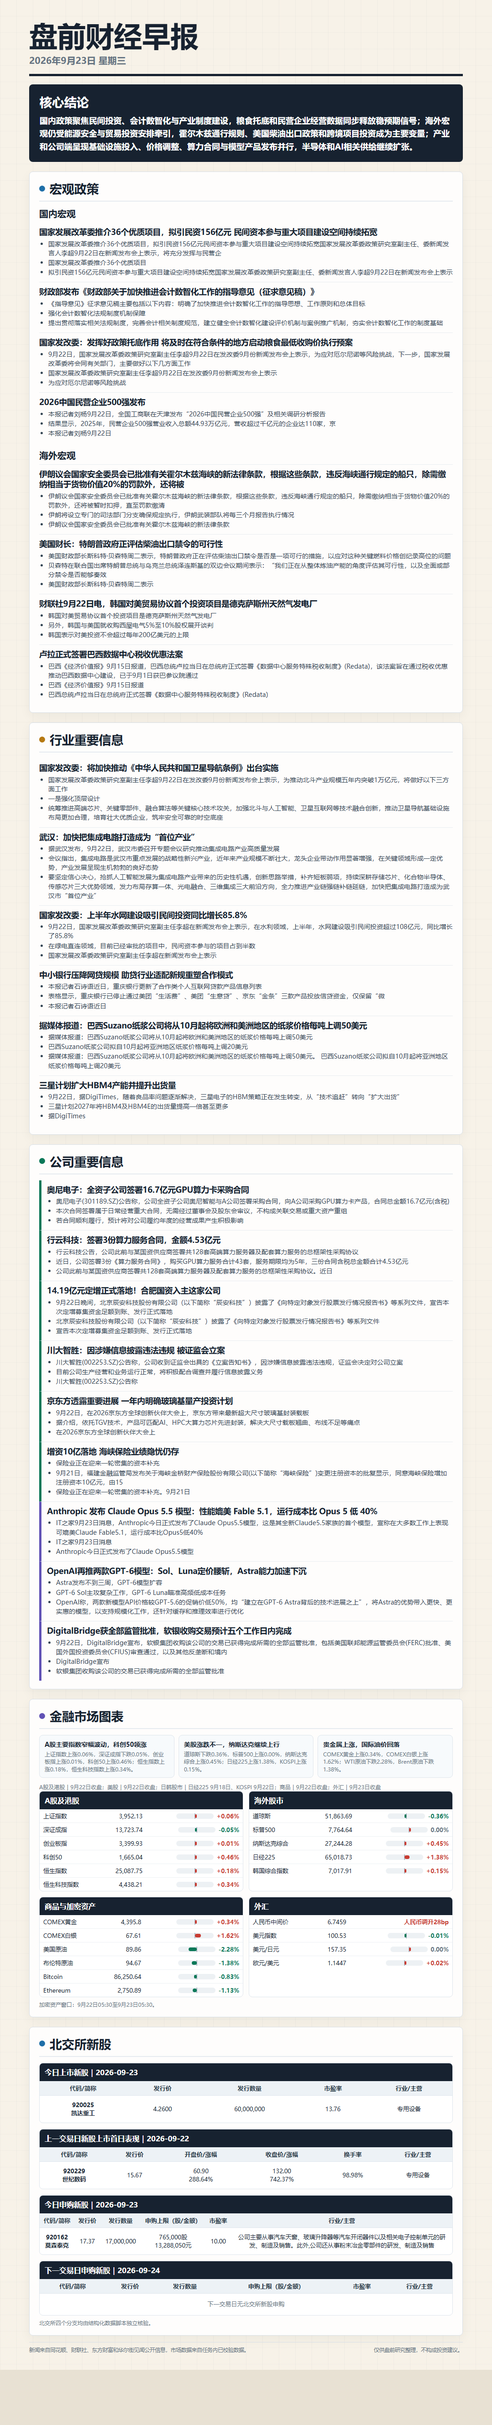
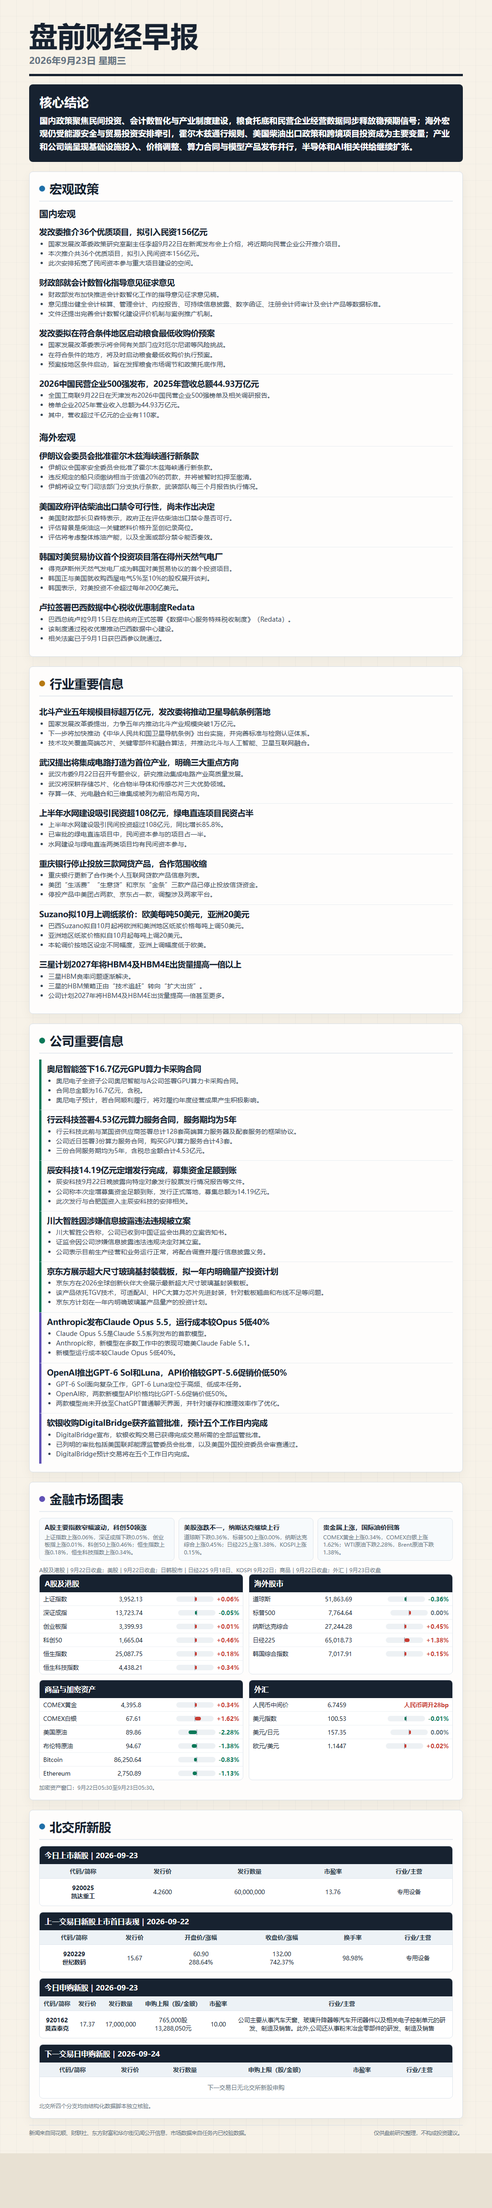
Correct 2026-09-23 morning brief

diff --git a/2026-09-23/report.html b/2026-09-23/report.html
@@ -26,98 +26,94 @@
   <section class="lead"><h2>核心结论</h2><p>国内政策聚焦民间投资、会计数智化与产业制度建设，粮食托底和民营企业经营数据同步释放稳预期信号；海外宏观仍受能源安全与贸易投资安排牵引，霍尔木兹通行规则、美国柴油出口政策和跨境项目投资成为主要变量；产业和公司端呈现基础设施投入、价格调整、算力合同与模型产品发布并行，半导体和AI相关供给继续扩张。</p></section>
   <section class="section"><h2 class="section-title"><span class="dot"></span>宏观政策</h2><h3 class="subhead">国内宏观</h3>
     <article class="item ">
-      <h4>国家发展改革委推介36个优质项目，拟引民资156亿元 民间资本参与重大项目建设空间持续拓宽</h4>
-      <ul><li>国家发展改革委推介36个优质项目，拟引民资156亿元民间资本参与重大项目建设空间持续拓宽国家发展改革委政策研究室副主任、委新闻发言人李超9月22日在新闻发布会上表示，将充分发挥与民营企</li><li>国家发展改革委推介36个优质项目</li><li>拟引民资156亿元民间资本参与重大项目建设空间持续拓宽国家发展改革委政策研究室副主任、委新闻发言人李超9月22日在新闻发布会上表示</li></ul>
+      <h4>发改委推介36个优质项目，拟引入民资156亿元</h4>
+      <ul><li>国家发展改革委政策研究室副主任李超9月22日在新闻发布会上介绍，将近期向民营企业公开推介项目。</li><li>本次推介共36个优质项目，拟引入民间资本156亿元。</li><li>此次安排拓宽了民间资本参与重大项目建设的空间。</li></ul>
     </article>
     <article class="item ">
-      <h4>财政部发布《财政部关于加快推进会计数智化工作的指导意见（征求意见稿）》</h4>
-      <ul><li>《指导意见》征求意见稿主要包括以下内容：明确了加快推进会计数智化工作的指导思想、工作原则和总体目标</li><li>强化会计数智化法规制度机制保障</li><li>提出贯彻落实相关法规制度，完善会计相关制度规范，建立健全会计数智化建设评价机制与案例推广机制，夯实会计数智化工作的制度基础</li></ul>
+      <h4>财政部就会计数智化指导意见征求意见</h4>
+      <ul><li>财政部发布加快推进会计数智化工作的指导意见征求意见稿。</li><li>意见提出健全会计核算、管理会计、内控报告、可持续信息披露、数字函证、注册会计师审计及会计产品等数据标准。</li><li>文件还提出完善会计数智化建设评价机制与案例推广机制。</li></ul>
     </article>
     <article class="item ">
-      <h4>国家发改委：发挥好政策托底作用 将及时在符合条件的地方启动粮食最低收购价执行预案</h4>
-      <ul><li>9月22日，国家发展改革委政策研究室副主任李超9月22日在发改委9月份新闻发布会上表示，为应对厄尔尼诺等风险挑战，下一步，国家发展改革委将会同有关部门，主要做好以下几方面工作</li><li>国家发展改革委政策研究室副主任李超9月22日在发改委9月份新闻发布会上表示</li><li>为应对厄尔尼诺等风险挑战</li></ul>
+      <h4>发改委拟在符合条件地区启动粮食最低收购价预案</h4>
+      <ul><li>国家发展改革委表示将会同有关部门应对厄尔尼诺等风险挑战。</li><li>在符合条件的地方，将及时启动粮食最低收购价执行预案。</li><li>预案按地区条件启动，旨在发挥粮食市场调节和政策托底作用。</li></ul>
     </article>
     <article class="item ">
-      <h4>2026中国民营企业500强发布</h4>
-      <ul><li>本报记者刘杨9月22日，全国工商联在天津发布“2026中国民营企业500强”及相关调研分析报告</li><li>结果显示，2025年，民营企业500强营业收入总额44.93万亿元，营收超过千亿元的企业达110家，京</li><li>本报记者刘杨9月22日</li></ul>
+      <h4>2026中国民营企业500强发布，2025年营收总额44.93万亿元</h4>
+      <ul><li>全国工商联9月22日在天津发布2026中国民营企业500强榜单及相关调研报告。</li><li>榜单企业2025年营业收入总额为44.93万亿元。</li><li>其中，营收超过千亿元的企业有110家。</li></ul>
     </article><h3 class="subhead">海外宏观</h3>
     <article class="item ">
-      <h4>伊朗议会国家安全委员会已批准有关霍尔木兹海峡的新法律条款，根据这些条款，违反海峡通行规定的船只，除需缴纳相当于货物价值20%的罚款外，还将被</h4>
-      <ul><li>伊朗议会国家安全委员会已批准有关霍尔木兹海峡的新法律条款，根据这些条款，违反海峡通行规定的船只，除需缴纳相当于货物价值20%的罚款外，还将被暂时扣押，直至罚款缴清</li><li>伊朗将设立专门的司法部门分支确保规定执行，伊朗武装部队将每三个月报告执行情况</li><li>伊朗议会国家安全委员会已批准有关霍尔木兹海峡的新法律条款</li></ul>
+      <h4>伊朗议会委员会批准霍尔木兹海峡通行新条款</h4>
+      <ul><li>伊朗议会国家安全委员会批准了霍尔木兹海峡通行新条款。</li><li>违反规定的船只须缴纳相当于货值20%的罚款，并将被暂时扣押至缴清。</li><li>伊朗将设立专门司法部门分支执行条款，武装部队每三个月报告执行情况。</li></ul>
     </article>
     <article class="item ">
-      <h4>美国财长：特朗普政府正评估柴油出口禁令的可行性</h4>
-      <ul><li>美国财政部长斯科特·贝森特周二表示，特朗普政府正在评估柴油出口禁令是否是一项可行的措施，以应对这种关键燃料价格创纪录高位的问题</li><li>贝森特在联合国出席特朗普总统与乌克兰总统泽连斯基的双边会议期间表示：“我们正在从整体炼油产能的角度评估其可行性，以及全面或部分禁令是否能够奏效</li><li>美国财政部长斯科特·贝森特周二表示</li></ul>
+      <h4>美国政府评估柴油出口禁令可行性，尚未作出决定</h4>
+      <ul><li>美国财政部长贝森特表示，政府正在评估柴油出口禁令是否可行。</li><li>评估背景是柴油这一关键燃料价格升至创纪录高位。</li><li>评估将考虑整体炼油产能，以及全面或部分禁令能否奏效。</li></ul>
     </article>
     <article class="item ">
-      <h4>财联社9月22日电，韩国对美贸易协议首个投资项目是德克萨斯州天然气发电厂</h4>
-      <ul><li>韩国对美贸易协议首个投资项目是德克萨斯州天然气发电厂</li><li>另外，韩国与美国就收购西屋电气5%至10%股权展开谈判</li><li>韩国表示对美投资不会超过每年200亿美元的上限</li></ul>
+      <h4>韩国对美贸易协议首个投资项目落在得州天然气电厂</h4>
+      <ul><li>得克萨斯州天然气发电厂成为韩国对美贸易协议的首个投资项目。</li><li>韩国正与美国就收购西屋电气5%至10%的股权展开谈判。</li><li>韩国表示，对美投资不会超过每年200亿美元。</li></ul>
     </article>
     <article class="item ">
-      <h4>卢拉正式签署巴西数据中心税收优惠法案</h4>
-      <ul><li>巴西《经济价值报》9月15日报道，巴西总统卢拉当日在总统府正式签署《数据中心服务特殊税收制度》(Redata)，该法案旨在通过税收优惠推动巴西数据中心建设，已于9月1日获巴参议院通过</li><li>巴西《经济价值报》9月15日报道</li><li>巴西总统卢拉当日在总统府正式签署《数据中心服务特殊税收制度》(Redata)</li></ul>
+      <h4>卢拉签署巴西数据中心税收优惠制度Redata</h4>
+      <ul><li>巴西总统卢拉9月15日在总统府正式签署《数据中心服务特殊税收制度》（Redata）。</li><li>该制度通过税收优惠推动巴西数据中心建设。</li><li>相关法案已于9月1日获巴西参议院通过。</li></ul>
     </article></section>
   <section class="section"><h2 class="section-title"><span class="dot" style="background:var(--gold)"></span>行业重要信息</h2>
     <article class="item ">
-      <h4>国家发改委：将加快推动《中华人民共和国卫星导航条例》出台实施</h4>
-      <ul><li>国家发展改革委政策研究室副主任李超9月22日在发改委9月份新闻发布会上表示，为推动北斗产业规模五年内突破1万亿元，将做好以下三方面工作</li><li>一是强化顶层设计</li><li>统筹推进高端芯片、关键零部件、融合算法等关键核心技术攻关，加强北斗与人工智能、卫星互联网等技术融合创新，推动卫星导航基础设施布局更加合理，培育壮大优质企业，筑牢安全可靠的时空底座</li></ul>
+      <h4>北斗产业五年规模目标超万亿元，发改委将推动卫星导航条例落地</h4>
+      <ul><li>国家发展改革委提出，力争五年内推动北斗产业规模突破1万亿元。</li><li>下一步将加快推动《中华人民共和国卫星导航条例》出台实施，并完善标准与检测认证体系。</li><li>技术攻关覆盖高端芯片、关键零部件和融合算法，并推动北斗与人工智能、卫星互联网融合。</li></ul>
     </article>
     <article class="item ">
-      <h4>武汉：加快把集成电路打造成为“首位产业”</h4>
-      <ul><li>据武汉发布，9月22日，武汉市委召开专题会议研究推动集成电路产业高质量发展</li><li>会议指出，集成电路是武汉市重点发展的战略性新兴产业，近年来产业规模不断壮大，龙头企业带动作用显著增强，在关键领域形成一定优势，产业发展呈现生机勃勃的良好态势</li><li>要坚定信心决心，抢抓人工智能发展为集成电路产业带来的历史性机遇，创新思路举措，补齐短板弱项，持续深耕存储芯片、化合物半导体、传感芯片三大优势领域，发力布局存算一体、光电融合、三维集成三大前沿方向，全力推进产业链强链补链延链，加快把集成电路打造成为武汉市“首位产业”</li></ul>
+      <h4>武汉提出将集成电路打造为首位产业，明确三大重点方向</h4>
+      <ul><li>武汉市委9月22日召开专题会议，研究推动集成电路产业高质量发展。</li><li>武汉将深耕存储芯片、化合物半导体和传感芯片三大优势领域。</li><li>存算一体、光电融合和三维集成被列为前沿布局方向。</li></ul>
     </article>
     <article class="item ">
-      <h4>国家发改委：上半年水网建设吸引民间投资同比增长85.8%</h4>
-      <ul><li>9月22日，国家发展改革委政策研究室副主任李超在新闻发布会上表示，在水利领域，上半年，水网建设吸引民间投资超过108亿元，同比增长了85.8%</li><li>在绿电直连领域，目前已经审批的项目中，民间资本参与的项目占到半数</li><li>国家发展改革委政策研究室副主任李超在新闻发布会上表示</li></ul>
+      <h4>上半年水网建设吸引民资超108亿元，绿电直连项目民资占半</h4>
+      <ul><li>上半年水网建设吸引民间投资超过108亿元，同比增长85.8%。</li><li>已审批的绿电直连项目中，民间资本参与的项目占一半。</li><li>水网建设与绿电直连两类项目均有民间资本参与。</li></ul>
     </article>
     <article class="item ">
-      <h4>中小银行压降网贷规模 助贷行业适配新规重塑合作模式</h4>
-      <ul><li>本报记者石诗语近日，重庆银行更新了合作类个人互联网贷款产品信息列表</li><li>表格显示，重庆银行已停止通过美团“生活费”、美团“生意贷”、京东“金条”三款产品投放信贷资金，仅保留“微</li><li>本报记者石诗语近日</li></ul>
+      <h4>重庆银行停止投放三款网贷产品，合作范围收缩</h4>
+      <ul><li>重庆银行更新了合作类个人互联网贷款产品信息列表。</li><li>美团“生活费”“生意贷”和京东“金条”三款产品已停止投放信贷资金。</li><li>停投产品中美团占两款、京东占一款，调整涉及两家平台。</li></ul>
     </article>
     <article class="item ">
-      <h4>据媒体报道：巴西Suzano纸浆公司将从10月起将欧洲和美洲地区的纸浆价格每吨上调50美元</h4>
-      <ul><li>据媒体报道：巴西Suzano纸浆公司将从10月起将欧洲和美洲地区的纸浆价格每吨上调50美元</li><li>巴西Suzano纸浆公司拟自10月起将亚洲地区纸浆价格每吨上调20美元</li><li>据媒体报道：巴西Suzano纸浆公司将从10月起将欧洲和美洲地区的纸浆价格每吨上调50美元。 巴西Suzano纸浆公司拟自10月起将亚洲地区纸浆价格每吨上调20美元</li></ul>
+      <h4>Suzano拟10月上调纸浆价：欧美每吨50美元，亚洲20美元</h4>
+      <ul><li>巴西Suzano拟自10月起将欧洲和美洲地区纸浆价格每吨上调50美元。</li><li>亚洲地区纸浆价格拟自10月起每吨上调20美元。</li><li>本轮调价按地区设定不同幅度，亚洲上调幅度低于欧美。</li></ul>
     </article>
     <article class="item ">
-      <h4>三星计划扩大HBM4产能并提升出货量</h4>
-      <ul><li>9月22日，据DigiTimes，随着良品率问题逐渐解决，三星电子的HBM策略正在发生转变，从“技术追赶”转向“扩大出货”</li><li>三星计划2027年将HBM4及HBM4E的出货量提高一倍甚至更多</li><li>据DigiTimes</li></ul>
+      <h4>三星计划2027年将HBM4及HBM4E出货量提高一倍以上</h4>
+      <ul><li>三星HBM良率问题逐渐解决。</li><li>三星的HBM策略正由“技术追赶”转向“扩大出货”。</li><li>公司计划2027年将HBM4及HBM4E出货量提高一倍甚至更多。</li></ul>
     </article></section>
   <section class="section"><h2 class="section-title"><span class="dot" style="background:var(--green)"></span>公司重要信息</h2>
     <article class="item company-line">
-      <h4>奥尼电子：全资子公司签署16.7亿元GPU算力卡采购合同</h4>
-      <ul><li>奥尼电子(301189.SZ)公告称，公司全资子公司奥尼智能与A公司签署采购合同，向A公司采购GPU算力卡产品，合同总金额16.7亿元(含税)</li><li>本次合同签署属于日常经营重大合同，无需经过董事会及股东会审议，不构成关联交易或重大资产重组</li><li>若合同顺利履行，预计将对公司履约年度的经营成果产生积极影响</li></ul>
+      <h4>奥尼智能签下16.7亿元GPU算力卡采购合同</h4>
+      <ul><li>奥尼电子全资子公司奥尼智能与A公司签署GPU算力卡采购合同。</li><li>合同总金额为16.7亿元，含税。</li><li>奥尼电子预计，若合同顺利履行，将对履约年度经营成果产生积极影响。</li></ul>
     </article>
     <article class="item company-line">
-      <h4>行云科技：签署3份算力服务合同，金额4.53亿元</h4>
-      <ul><li>行云科技公告，公司此前与某国资供应商签署共128套高端算力服务器及配套算力服务的总框架性采购协议</li><li>近日，公司签署3份《算力服务合同》，购买GPU算力服务合计43套，服务期限均为5年，三份合同含税总金额合计4.53亿元</li><li>公司此前与某国资供应商签署共128套高端算力服务器及配套算力服务的总框架性采购协议。近日</li></ul>
+      <h4>行云科技签署4.53亿元算力服务合同，服务期均为5年</h4>
+      <ul><li>行云科技此前与某国资供应商签署总计128套高端算力服务器及配套服务的框架协议。</li><li>公司近日签署3份算力服务合同，购买GPU算力服务合计43套。</li><li>三份合同服务期均为5年，含税总金额合计4.53亿元。</li></ul>
     </article>
     <article class="item company-line">
-      <h4>14.19亿元定增正式落地！合肥国资入主这家公司</h4>
-      <ul><li>9月22日晚间，北京辰安科技股份有限公司（以下简称“辰安科技”）披露了《向特定对象发行股票发行情况报告书》等系列文件，宣告本次定增募集资金足额到账、发行正式落地</li><li>北京辰安科技股份有限公司（以下简称“辰安科技”）披露了《向特定对象发行股票发行情况报告书》等系列文件</li><li>宣告本次定增募集资金足额到账、发行正式落地</li></ul>
+      <h4>辰安科技14.19亿元定增发行完成，募集资金足额到账</h4>
+      <ul><li>辰安科技9月22日晚披露向特定对象发行股票发行情况报告等文件。</li><li>公司称本次定增募集资金足额到账，发行正式落地，募集总额为14.19亿元。</li><li>此次发行与合肥国资入主辰安科技的安排相关。</li></ul>
     </article>
     <article class="item company-line">
-      <h4>川大智胜：因涉嫌信息披露违法违规 被证监会立案</h4>
-      <ul><li>川大智胜(002253.SZ)公告称，公司收到证监会出具的《立案告知书》，因涉嫌信息披露违法违规，证监会决定对公司立案</li><li>目前公司生产经营和业务运行正常，将积极配合调查并履行信息披露义务</li><li>川大智胜(002253.SZ)公告称</li></ul>
+      <h4>川大智胜因涉嫌信息披露违法违规被立案</h4>
+      <ul><li>川大智胜公告称，公司已收到中国证监会出具的立案告知书。</li><li>证监会因公司涉嫌信息披露违法违规决定对其立案。</li><li>公司表示目前生产经营和业务运行正常，将配合调查并履行信息披露义务。</li></ul>
     </article>
     <article class="item company-line">
-      <h4>京东方透露重要进展 一年内明确玻璃基量产投资计划</h4>
-      <ul><li>9月22日，在2026京东方全球创新伙伴大会上，京东方带来最新超大尺寸玻璃基封装载板</li><li>据介绍，依托TGV技术，产品可匹配AI、HPC大算力芯片先进封装，解决大尺寸载板翘曲、布线不足等痛点</li><li>在2026京东方全球创新伙伴大会上</li></ul>
-    </article>
-    <article class="item company-line">
-      <h4>增资10亿落地 海峡保险业绩隐忧仍存</h4>
-      <ul><li>保险业正在迎来一轮密集的资本补充</li><li>9月21日，福建金融监管局发布关于海峡金桥财产保险股份有限公司(以下简称“海峡保险”)变更注册资本的批复显示，同意海峡保险增加注册资本10亿元，由15</li><li>保险业正在迎来一轮密集的资本补充。9月21日</li></ul>
+      <h4>京东方展示超大尺寸玻璃基封装载板，拟一年内明确量产投资计划</h4>
+      <ul><li>京东方在2026全球创新伙伴大会展示最新超大尺寸玻璃基封装载板。</li><li>该产品依托TGV技术，可适配AI、HPC大算力芯片先进封装，针对载板翘曲和布线不足等问题。</li><li>京东方计划在一年内明确玻璃基产品量产的投资计划。</li></ul>
     </article>
     <article class="item company-line overseas">
-      <h4>Anthropic 发布 Claude Opus 5.5 模型：性能媲美 Fable 5.1，运行成本比 Opus 5 低 40%</h4>
-      <ul><li>IT之家9月23日消息，Anthropic今日正式发布了Claude Opus5.5模型，这是其全新Claude5.5家族的首个模型，宣称在大多数工作上表现可媲美Claude Fable5.1，运行成本比Opus5低40%</li><li>IT之家9月23日消息</li><li>Anthropic今日正式发布了Claude Opus5.5模型</li></ul>
+      <h4>Anthropic发布Claude Opus 5.5，运行成本较Opus 5低40%</h4>
+      <ul><li>Claude Opus 5.5是Claude 5.5系列发布的首款模型。</li><li>Anthropic称，新模型在多数工作中的表现可媲美Claude Fable 5.1。</li><li>新模型运行成本较Claude Opus 5低40%。</li></ul>
     </article>
     <article class="item company-line overseas">
-      <h4>OpenAI再推两款GPT-6模型：Sol、Luna定价腰斩，Astra能力加速下沉</h4>
-      <ul><li>Astra发布不到三周，GPT-6模型扩容</li><li>GPT-6 Sol主攻复杂工作，GPT-6 Luna瞄准高频低成本任务</li><li>OpenAI称，两款新模型API价格较GPT-5.6的促销价低50%，均“建立在GPT-6 Astra背后的技术进展之上”，将Astra的优势带入更快、更实惠的模型，以支持规模化工作，还针对缓存和推理效率进行优化</li></ul>
+      <h4>OpenAI推出GPT-6 Sol和Luna，API价格较GPT-5.6促销价低50%</h4>
+      <ul><li>GPT-6 Sol面向复杂工作，GPT-6 Luna定位于高频、低成本任务。</li><li>OpenAI称，两款新模型API价格均比GPT-5.6促销价低50%。</li><li>两款模型尚未开放至ChatGPT普通聊天界面，并针对缓存和推理效率作了优化。</li></ul>
     </article>
     <article class="item company-line overseas">
-      <h4>DigitalBridge获全部监管批准，软银收购交易预计五个工作日内完成</h4>
-      <ul><li>9月22日，DigitalBridge宣布，软银集团收购该公司的交易已获得完成所需的全部监管批准，包括美国联邦能源监管委员会(FERC)批准、美国外国投资委员会(CFIUS)审查通过，以及其他反垄断和境内</li><li>DigitalBridge宣布</li><li>软银集团收购该公司的交易已获得完成所需的全部监管批准</li></ul>
+      <h4>软银收购DigitalBridge获齐监管批准，预计五个工作日内完成</h4>
+      <ul><li>DigitalBridge宣布，软银收购交易已获得完成交易所需的全部监管批准。</li><li>已列明的审批包括美国联邦能源监管委员会批准，以及美国外国投资委员会审查通过。</li><li>DigitalBridge预计交易将在五个工作日内完成。</li></ul>
     </article></section>
   <section class="section"><h2 class="section-title"><span class="dot" style="background:var(--violet)"></span>金融市场图表</h2><div class="market-headlines"><div class="market-note"><b>A股主要指数窄幅波动，科创50领涨</b><span>上证指数上涨0.06%，深证成指下跌0.05%，创业板指上涨0.01%，科创50上涨0.46%；恒生指数上涨0.18%，恒生科技指数上涨0.34%。</span></div><div class="market-note"><b>美股涨跌不一，纳斯达克继续上行</b><span>道琼斯下跌0.36%，标普500上涨0.00%，纳斯达克综合上涨0.45%；日经225上涨1.38%，KOSPI上涨0.15%。</span></div><div class="market-note"><b>贵金属上涨，国际油价回落</b><span>COMEX黄金上涨0.34%，COMEX白银上涨1.62%；WTI原油下跌2.28%，Brent原油下跌1.38%。</span></div></div><p class="market-caption">A股及港股｜9月22日收盘；美股｜9月22日收盘；日韩股市｜日经225 9月18日、KOSPI 9月22日；商品｜9月22日收盘；外汇｜9月23日收盘</p><div class="market-grid"><div class="market-box"><h3>A股及港股</h3><table><tr><td>上证指数</td><td>3,952.13</td><td><span class="bar-wrap"><span class="bar pos upb" style="width:4.0px"></span></span><span class="up">+0.06%</span></td></tr><tr><td>深证成指</td><td>13,723.74</td><td><span class="bar-wrap"><span class="bar neg downb" style="width:4.0px"></span></span><span class="down">-0.05%</span></td></tr><tr><td>创业板指</td><td>3,399.93</td><td><span class="bar-wrap"><span class="bar pos upb" style="width:4.0px"></span></span><span class="up">+0.01%</span></td></tr><tr><td>科创50</td><td>1,665.04</td><td><span class="bar-wrap"><span class="bar pos upb" style="width:4.0px"></span></span><span class="up">+0.46%</span></td></tr><tr><td>恒生指数</td><td>25,087.75</td><td><span class="bar-wrap"><span class="bar pos upb" style="width:4.0px"></span></span><span class="up">+0.18%</span></td></tr><tr><td>恒生科技指数</td><td>4,438.21</td><td><span class="bar-wrap"><span class="bar pos upb" style="width:4.0px"></span></span><span class="up">+0.34%</span></td></tr></table></div><div class="market-box"><h3>海外股市</h3><table><tr><td>道琼斯</td><td>51,863.69</td><td><span class="bar-wrap"><span class="bar neg downb" style="width:4.0px"></span></span><span class="down">-0.36%</span></td></tr><tr><td>标普500</td><td>7,764.64</td><td><span class="bar-wrap"><span class="bar pos upb" style="width:4.0px"></span></span><span class="flat">0.00%</span></td></tr><tr><td>纳斯达克综合</td><td>27,244.28</td><td><span class="bar-wrap"><span class="bar pos upb" style="width:4.0px"></span></span><span class="up">+0.45%</span></td></tr><tr><td>日经225</td><td>65,018.73</td><td><span class="bar-wrap"><span class="bar pos upb" style="width:11.0px"></span></span><span class="up">+1.38%</span></td></tr><tr><td>韩国综合指数</td><td>7,017.91</td><td><span class="bar-wrap"><span class="bar pos upb" style="width:4.0px"></span></span><span class="up">+0.15%</span></td></tr></table></div><div class="market-box"><h3>商品与加密资产</h3><table><tr><td>COMEX黄金</td><td>4,395.8</td><td><span class="bar-wrap"><span class="bar pos upb" style="width:4.0px"></span></span><span class="up">+0.34%</span></td></tr><tr><td>COMEX白银</td><td>67.61</td><td><span class="bar-wrap"><span class="bar pos upb" style="width:13.0px"></span></span><span class="up">+1.62%</span></td></tr><tr><td>美国原油</td><td>89.86</td><td><span class="bar-wrap"><span class="bar neg downb" style="width:18.3px"></span></span><span class="down">-2.28%</span></td></tr><tr><td>布伦特原油</td><td>94.67</td><td><span class="bar-wrap"><span class="bar neg downb" style="width:11.0px"></span></span><span class="down">-1.38%</span></td></tr><tr><td>Bitcoin</td><td>86,250.64</td><td><span class="bar-wrap"><span class="bar neg downb" style="width:6.6px"></span></span><span class="down">-0.83%</span></td></tr><tr><td>Ethereum</td><td>2,750.89</td><td><span class="bar-wrap"><span class="bar neg downb" style="width:9.0px"></span></span><span class="down">-1.13%</span></td></tr></table></div><div class="market-box"><h3>外汇</h3><table><tr><td>人民币中间价</td><td>6.7459</td><td><span class="up">人民币调升28bp</span></td></tr><tr><td>美元指数</td><td>100.53</td><td><span class="bar-wrap"><span class="bar neg downb" style="width:4.0px"></span></span><span class="down">-0.01%</span></td></tr><tr><td>美元/日元</td><td>157.35</td><td><span class="bar-wrap"><span class="bar pos upb" style="width:4.0px"></span></span><span class="flat">0.00%</span></td></tr><tr><td>欧元/美元</td><td>1.1447</td><td><span class="bar-wrap"><span class="bar pos upb" style="width:4.0px"></span></span><span class="up">+0.02%</span></td></tr></table></div></div><p class="market-caption">加密资产窗口：9月22日05:30至9月23日05:30。</p></section>
   <section class="section"><h2 class="section-title"><span class="dot" style="background:var(--blue)"></span>北交所新股</h2><div class="ipo-box"><h3>今日上市新股｜2026-09-23</h3><table class="ipo-table"><tr><th>代码/简称</th><th>发行价</th><th>发行数量</th><th>市盈率</th><th>行业/主营</th></tr><tr><td class="codecell">920025<br>凯达重工</td><td>4.2600</td><td>60,000,000</td><td>13.76</td><td>专用设备</td></tr></table></div><div class="ipo-box"><h3>上一交易日新股上市首日表现｜2026-09-22</h3><table class="ipo-table"><tr><th>代码/简称</th><th>发行价</th><th>开盘价/涨幅</th><th>收盘价/涨幅</th><th>换手率</th><th>行业/主营</th></tr><tr><td class="codecell">920229<br>世纪数码</td><td>15.67</td><td>60.90<br>288.64%</td><td>132.00<br>742.37%</td><td>98.98%</td><td>专用设备</td></tr></table></div><div class="ipo-box"><h3>今日申购新股｜2026-09-23</h3><table class="ipo-table"><tr><th>代码/简称</th><th>发行价</th><th>发行数量</th><th>申购上限（股/金额）</th><th>市盈率</th><th>行业/主营</th></tr><tr><td class="codecell">920162<br>莫森泰克</td><td>17.37</td><td>17,000,000</td><td class="shares">765,000股<br>13,288,050元</td><td>10.00</td><td>公司主要从事汽车天窗、玻璃升降器等汽车开闭器件以及相关电子控制单元的研发、制造及销售。此外,公司还从事粉末冶金零部件的研发、制造及销售</td></tr></table></div><div class="ipo-box"><h3>下一交易日申购新股｜2026-09-24</h3><table class="ipo-table"><tr><th>代码/简称</th><th>发行价</th><th>发行数量</th><th>申购上限（股/金额）</th><th>市盈率</th><th>行业/主营</th></tr><tr><td class="empty" colspan="6">下一交易日无北交所新股申购</td></tr></table></div><div class="check-note">北交所四个分支均由结构化数据脚本独立核验。</div></section>

diff --git a/2026-09-23/sources-2026-09-23.md b/2026-09-23/sources-2026-09-23.md
@@ -29,7 +29,6 @@
 - domesticCompanies: 14.19亿元定增正式落地！合肥国资入主这家公司 - https://finance.eastmoney.com/a/202609223881507590.html
 - domesticCompanies: 川大智胜：因涉嫌信息披露违法违规 被证监会立案 - https://www.cls.cn/detail/2490278
 - domesticCompanies: 京东方透露重要进展 一年内明确玻璃基量产投资计划 - https://finance.eastmoney.com/a/202609223881545264.html
-- domesticCompanies: 增资10亿落地 海峡保险业绩隐忧仍存 - http://news.10jqka.com.cn/20260923/c680186289.shtml
 - overseasCompanies: Anthropic 发布 Claude Opus 5.5 模型：性能媲美 Fable 5.1，运行成本比 Opus 5 低 40% - http://field.10jqka.com.cn/20260923/c680186562.shtml
 - overseasCompanies: OpenAI再推两款GPT-6模型：Sol、Luna定价腰斩，Astra能力加速下沉 - https://wallstreetcn.com/articles/3782320
 - overseasCompanies: DigitalBridge获全部监管批准，软银收购交易预计五个工作日内完成 - http://news.10jqka.com.cn/20260922/c680184145.shtml
